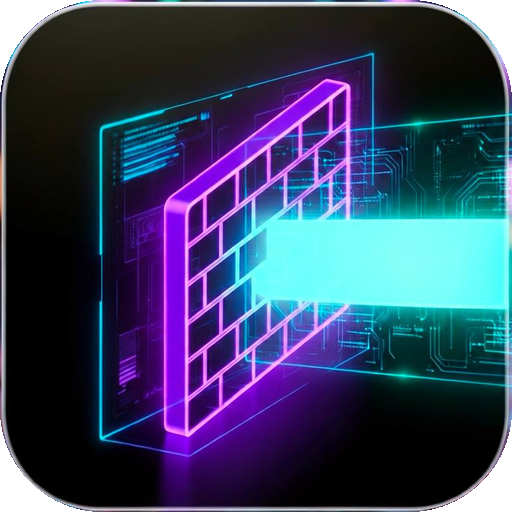
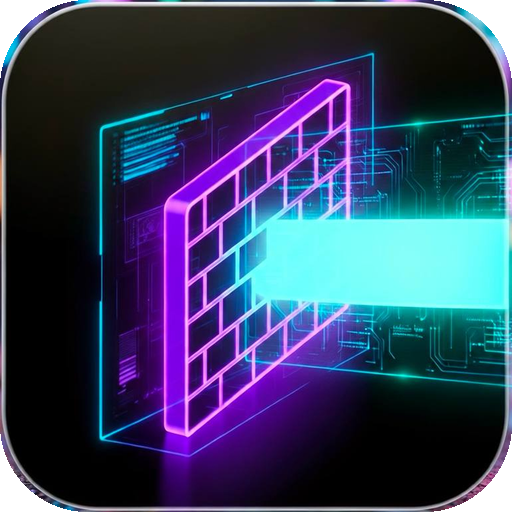
fix(v1.6.2): иконка — радиус углов по картинке (17%, рамка не подрезается); вкладка «Подключение» переработана (единый каркас, кнопки равной ширины, QR в ряду ссылки, слоп-тексты удалены); Share APK → Настройки; preserveScroll — пересборки не двигают экран; веб-тексты почищены

diff --git a/android/app/src/main/java/dev/stelgen/reverseray/MainActivity.kt b/android/app/src/main/java/dev/stelgen/reverseray/MainActivity.kt
@@ -249,7 +249,7 @@ class MainActivity : AppCompatActivity() {
                     // v1.5.0: сервис остановлен — дашборд в оффлайн-снапшот профилей
                     if (state == TunnelService.STATE_STOPPED) {
                         lastSessionsJson = ""
-                        dashboard.update(offlineStats())
+                        preserveScroll { dashboard.update(offlineStats()) }
                     }
                     intent.getStringExtra(TunnelService.EXTRA_STATUS)?.let { statusText ->
                         renderServiceLogs()
@@ -475,6 +475,7 @@ class MainActivity : AppCompatActivity() {
     }
 
     private fun showPage(index: Int) {
+        currentTab = index
         listOf(pageHome, pageLink, pageUpdate, pageLog, pageSettings).forEachIndexed { i, p ->
             val show = i == index
             p.visibility = if (show) View.VISIBLE else View.GONE
@@ -522,11 +523,31 @@ class MainActivity : AppCompatActivity() {
             ),
         )
         parent.addView(dashboard)
-        if (lastSessionsJson.isBlank()) dashboard.update(offlineStats())
+        if (lastSessionsJson.isBlank()) preserveScroll { dashboard.update(offlineStats()) }
     }
 
     /** Последний JSON-снапшот сессий из EXTRA_SESSIONS (пусто — сервис молчит). */
     @Volatile private var lastSessionsJson: String = ""
+
+    /** v1.6.2: текущая вкладка (для стабилизации скролла при пересборках). */
+    private var currentTab = 0
+
+    /**
+     * v1.6.2: пересборка списков НЕ должна двигать экран: фиксируем scrollY
+     * активной вкладки, выполняем пересборку, возвращаем позицию (post —
+     * после перелайаута; страховочный пост через 64 мс).
+     */
+    private fun preserveScroll(block: () -> Unit) {
+        val sv = when (currentTab) {
+            0 -> pageHome; 1 -> pageLink; 2 -> pageUpdate; 3 -> pageLog; 4 -> pageSettings; else -> null
+        } as? android.widget.ScrollView
+        val y = sv?.scrollY ?: 0
+        block()
+        if (sv != null) {
+            sv.post { sv.scrollTo(0, y) }
+            sv.postDelayed({ sv.scrollTo(0, y) }, 64)
+        }
+    }
 
     /** Оффлайн-снапшот из профилей (сервис не шлёт статсы: stopped/disabled). */
     private fun offlineStats(): List<DashboardView.Stat> {
@@ -576,7 +597,8 @@ class MainActivity : AppCompatActivity() {
             }
         } catch (_: Exception) {
         }
-        dashboard.update(list)
+        // v1.6.2: дашборд пересобирается каждые 500 мс — скролл Home не дёргается
+        preserveScroll { dashboard.update(list) }
     }
 
     private fun page(): LinearLayout = LinearLayout(this).apply {
@@ -825,15 +847,39 @@ class MainActivity : AppCompatActivity() {
 
     private fun buildLinkPage(): View {
         val p = page()
-        p.addView(TextView(this).apply {
-            setText(R.string.link_tab_hint)
-            textSize = 13f
-            setPadding(0, dp(4), 0, dp(4))
-        })
 
-        // v1.6.0: сессии (мульти-сервер) живут ЗДЕСЬ, на «Подключении» —
-        // раньше карточка была в «Настройках» (дубль, находили с трудом).
-        p.addView(sectionTitle(R.string.sess_section_title, null))
+        // ── 1. ПОДКЛЮЧЕНИЕ: каноническая ссылка (read-only) + правка/QR ──
+        val linkCard = LinearLayout(this).apply { orientation = LinearLayout.VERTICAL }
+        linkCard.addView(sectionTitle(R.string.config_hint_title, null))
+        linkStatusView = TextView(this).apply {
+            textSize = 12f
+            setTypeface(typeface, Typeface.BOLD)
+            setPadding(0, dp(2), 0, dp(4))
+            visibility = View.GONE
+        }
+        linkCard.addView(linkStatusView)
+        linkValueView = TextView(this).apply {
+            textSize = 12f
+            setTypeface(Typeface.MONOSPACE)
+            setPadding(dp(10), dp(10), dp(10), dp(10))
+            setTextIsSelectable(true)
+            val cur = prefs().getString(TunnelService.KEY_CONFIG, "") ?: ""
+            text = if (cur.isBlank()) getString(R.string.link_empty) else cur
+        }
+        linkCard.addView(linkValueView)
+        linkCard.addView(
+            row(
+                outlined(R.string.link_edit).apply { setOnClickListener { showEditLinkDialog() } },
+                outlined(R.string.qr_scan).apply { setOnClickListener { launchScan() } },
+                outlined(R.string.qr_show).apply { setOnClickListener { showQr() } }.apply {
+                    visibility = if (qrSupported) View.VISIBLE else View.GONE
+                },
+            )
+        )
+        p.addView(card(linkCard))
+
+        // ── 2. СЕРВЕРЫ: сессии мульти-серверного ядра (v1.6.0 перенесено
+        // из «Настроек»; v1.6.2 — единый лаконичный каркас вкладки) ──
         val sessionsCard = card(LinearLayout(this).apply { orientation = LinearLayout.VERTICAL })
         sessionsBox = sessionsCard.getChildAt(0) as LinearLayout
         sessionsCard.addView(
@@ -842,12 +888,12 @@ class MainActivity : AppCompatActivity() {
         p.addView(sessionsCard)
         refreshSessionsCard()
 
-        // v1.6.0: МУЛЬТИ-ВВОД ссылок — многострочное окно: по ссылке на строку,
-        // импорт пачкой (вкл. по умолчанию, коннект — по кнопке Старт).
+        // ── 3. ИМПОРТ: пачка ссылок (по одной на строку) ──
         val bulkCard = card(LinearLayout(this).apply { orientation = LinearLayout.VERTICAL })
+        bulkCard.addView(sectionTitle(R.string.sess_bulk_title, null))
         val bulkInput = TextInputEditText(this).apply {
             hint = getString(R.string.sess_bulk_hint)
-            minLines = 3
+            minLines = 2
             gravity = Gravity.TOP
             setTextSize(12f)
             setTypeface(Typeface.MONOSPACE)
@@ -871,38 +917,6 @@ class MainActivity : AppCompatActivity() {
             ),
         )
         p.addView(bulkCard)
-
-        // v1.3.0: ссылка ОТОбражается (read-only, перенос строк); правка — через
-        // кнопку «Изменить» с диалогом (Отмена/Очистить/ОК) и тестовым прогоном.
-        val linkCard = LinearLayout(this).apply { orientation = LinearLayout.VERTICAL }
-        linkCard.addView(sectionTitle(R.string.config_hint_title, null))
-        linkStatusView = TextView(this).apply {
-            textSize = 12f
-            setTypeface(typeface, Typeface.BOLD)
-            setPadding(0, dp(2), 0, dp(4))
-            visibility = View.GONE
-        }
-        linkCard.addView(linkStatusView)
-        linkValueView = TextView(this).apply {
-            textSize = 12f
-            setTypeface(Typeface.MONOSPACE)
-            setPadding(dp(10), dp(10), dp(10), dp(10))
-            setTextIsSelectable(true)
-            val cur = prefs().getString(TunnelService.KEY_CONFIG, "") ?: ""
-            text = if (cur.isBlank()) getString(R.string.link_empty) else cur
-        }
-        linkCard.addView(linkValueView)
-        linkCard.addView(
-            row(
-                outlined(R.string.link_edit).apply { setOnClickListener { showEditLinkDialog() } },
-                outlined(R.string.qr_scan).apply { setOnClickListener { launchScan() } },
-            )
-        )
-        p.addView(card(linkCard))
-
-        if (qrSupported) {
-            p.addView(row(outlined(R.string.qr_show).apply { setOnClickListener { showQr() } }))
-        }
 
         if (fileIoSupported) {
             p.addView(
@@ -1008,23 +1022,6 @@ class MainActivity : AppCompatActivity() {
             setOnClickListener { showTransportPicker() }
         })
         p.addView(card(protoCard))
-
-        // Поделиться приложением: ссылка или APK (модули вшиты, настроек нет)
-        val shareCard = LinearLayout(this).apply { orientation = LinearLayout.VERTICAL }
-        shareCard.addView(sectionTitle(R.string.btn_share_app, null))
-        shareCard.addView(TextView(this).apply {
-            setText(R.string.share_choose)
-            textSize = 12f
-            setTextColor(0xFF6B7280.toInt())
-            setPadding(0, dp(2), 0, dp(4))
-        })
-        shareCard.addView(
-            row(
-                filled(R.string.share_link).apply { setOnClickListener { shareAppLink() } },
-                outlined(R.string.share_apk).apply { setOnClickListener { shareAppApk() } },
-            )
-        )
-        p.addView(card(shareCard))
         return scrollWrap(p)
     }
 
@@ -1350,6 +1347,18 @@ class MainActivity : AppCompatActivity() {
             }
         })
         p.addView(card(probe))
+
+        // v1.6.2: «Поделиться приложением» переехал со вкладки «Подключение»
+        // в «Настройки» (канон: распространение — настройка, не подключение).
+        val shareCard = LinearLayout(this).apply { orientation = LinearLayout.VERTICAL }
+        shareCard.addView(sectionTitle(R.string.btn_share_app, null))
+        shareCard.addView(
+            row(
+                filled(R.string.share_link).apply { setOnClickListener { shareAppLink() } },
+                outlined(R.string.share_apk).apply { setOnClickListener { shareAppApk() } },
+            )
+        )
+        p.addView(card(shareCard))
         return scrollWrap(p)
     }
 
@@ -2925,49 +2934,53 @@ class MainActivity : AppCompatActivity() {
     /** Пересборка списка сессий в настройках. */
     private fun refreshSessionsCard() {
         if (!this::sessionsBox.isInitialized) return
-        sessionsBox.removeAllViews()
-        val store = sessionStore()
-        val active = store.activeId()
-        for (pr in store.profiles()) {
-            val line = LinearLayout(this).apply { orientation = LinearLayout.VERTICAL }
-            line.addView(TextView(this).apply {
-                text = (if (pr.id == active) "★ " else "") + pr.name +
-                    "  ·  " + getString(if (pr.enabled) R.string.dash_state_connected else R.string.dash_state_disabled)
-                textSize = 13f
-                setTypeface(typeface, Typeface.BOLD)
-                setPadding(0, dp(6), 0, dp(2))
-            })
-            line.addView(TextView(this).apply {
-                text = pr.uri
-                textSize = 11f
-                setTypeface(Typeface.MONOSPACE)
-                setTextColor(0xFF8FA3D9.toInt())
-                maxLines = 2
-                ellipsize = android.text.TextUtils.TruncateAt.END
-            })
-            line.addView(row(
-                outlined(if (pr.enabled) R.string.sess_off else R.string.sess_on).apply {
-                    setOnClickListener {
-                        store.setEnabled(pr.id, !pr.enabled)
-                        sendSessionCmd(pr.id, if (pr.enabled) "disconnect" else "connect")
-                        refreshSessionsCard()
-                    }
-                },
-                outlined(R.string.sess_rename).apply { setOnClickListener { showRenameSessionDialog(pr.id) } },
-                outlined(R.string.dash_session_primary).apply {
-                    visibility = if (pr.id == active) View.GONE else View.VISIBLE
-                    setOnClickListener {
-                        store.setActive(pr.id)
-                        sendSessionCmd(pr.id, "primary")
-                        refreshSessionsCard()
-                        dashboard.update(offlineStats())
-                    }
-                },
-                outlined(R.string.sess_delete).apply {
-                    setOnClickListener { confirmDeleteSession(pr.id) }
-                },
-            ))
-            sessionsBox.addView(line)
+        preserveScroll {
+            sessionsBox.removeAllViews()
+            val store = sessionStore()
+            val active = store.activeId()
+            for (pr in store.profiles()) {
+                val line = LinearLayout(this).apply { orientation = LinearLayout.VERTICAL }
+                line.addView(TextView(this).apply {
+                    text = (if (pr.id == active) "★ " else "") + pr.name +
+                        "  ·  " + getString(if (pr.enabled) R.string.dash_state_connected else R.string.dash_state_disabled)
+                    textSize = 13f
+                    setTypeface(typeface, Typeface.BOLD)
+                    setPadding(0, dp(6), 0, dp(2))
+                })
+                line.addView(TextView(this).apply {
+                    text = pr.uri
+                    textSize = 11f
+                    setTypeface(Typeface.MONOSPACE)
+                    setTextColor(0xFF8FA3D9.toInt())
+                    maxLines = 1
+                    ellipsize = android.text.TextUtils.TruncateAt.MIDDLE
+                })
+                // v1.6.2: кнопки РАВНОЙ ширины (weight=1) — «Rename» больше не
+                // переносится на две строки, высота строки стабильна.
+                val btnRow = LinearLayout(this).apply { orientation = LinearLayout.HORIZONTAL }
+                fun addBtn(labelRes: Int, onClick: () -> Unit) {
+                    btnRow.addView(outlined(labelRes).apply {
+                        setOnClickListener { onClick() }
+                        layoutParams = LinearLayout.LayoutParams(0, LinearLayout.LayoutParams.WRAP_CONTENT, 1f)
+                            .apply { setMargins(0, dp(6), dp(6), 0) }
+                    })
+                }
+                addBtn(if (pr.enabled) R.string.sess_off else R.string.sess_on) {
+                    store.setEnabled(pr.id, !pr.enabled)
+                    sendSessionCmd(pr.id, if (pr.enabled) "disconnect" else "connect")
+                    refreshSessionsCard()
+                }
+                addBtn(R.string.sess_rename) { showRenameSessionDialog(pr.id) }
+                if (pr.id != active) addBtn(R.string.dash_session_primary) {
+                    store.setActive(pr.id)
+                    sendSessionCmd(pr.id, "primary")
+                    refreshSessionsCard()
+                    preserveScroll { dashboard.update(offlineStats()) }
+                }
+                addBtn(R.string.sess_delete) { confirmDeleteSession(pr.id) }
+                line.addView(btnRow)
+                sessionsBox.addView(line)
+            }
         }
     }
 
@@ -3015,7 +3028,7 @@ class MainActivity : AppCompatActivity() {
                 Toast.makeText(this, getString(R.string.sess_added, created.name), Toast.LENGTH_LONG).show()
                 refreshSessionsCard()
                 if (connectNow) sendSessionCmd(created.id, "connect")
-                if (lastSessionsJson.isBlank()) dashboard.update(offlineStats())
+                if (lastSessionsJson.isBlank()) preserveScroll { dashboard.update(offlineStats()) }
             }
         }
         dialog.getButton(androidx.appcompat.app.AlertDialog.BUTTON_POSITIVE).setOnClickListener {
@@ -3110,7 +3123,7 @@ class MainActivity : AppCompatActivity() {
                 if (name.isNotBlank() && store.rename(id, name)) {
                     Toast.makeText(this, R.string.sess_renamed, Toast.LENGTH_SHORT).show()
                     refreshSessionsCard()
-                    dashboard.update(offlineStats())
+                    preserveScroll { dashboard.update(offlineStats()) }
                 }
             }
             .setNegativeButton(R.string.link_cancel, null)
@@ -3129,7 +3142,7 @@ class MainActivity : AppCompatActivity() {
                     sendSessionCmd(id, "disconnect")
                     Toast.makeText(this, R.string.sess_removed, Toast.LENGTH_SHORT).show()
                     refreshSessionsCard()
-                    dashboard.update(offlineStats())
+                    preserveScroll { dashboard.update(offlineStats()) }
                 }
             }
             .setNegativeButton(R.string.cancel, null)

diff --git a/server/internal/serverapp/ui.go b/server/internal/serverapp/ui.go
@@ -292,7 +292,7 @@ button.act.dw:hover{border-color:#ff6b6b}
  <div class="grid kpis" id="kpis"></div>
  <div class="grid" style="margin-top:10px">
   <div class="panel">
-   <h3><span>Управление телефонами</span><span class="ctrl dim">токен хранится хэшем — полную ссылку выдаёт enroll</span></h3>
+   <h3><span>Управление телефонами</span><span class="ctrl dim">hash-only</span></h3>
    <div style="overflow-x:auto"><table id="devs"><thead><tr>
     <th>Устройство</th><th>Сессий</th><th>Протоколы</th><th>↓ релей</th><th>↑ релей</th><th>API Mask</th><th>Действия</th>
    </tr></thead><tbody></tbody></table></div>
@@ -395,7 +395,7 @@ async function tick(){
    rows+='<tr><td class="s"><b>'+esc(x.device)+'</b></td><td class="s">'+esc(protoLabel(x.proto,s))+'</td><td class="s dim">'+esc(x.proto===undefined?'':(x.transport||'tcp'))+'</td><td>'+rtt+'</td><td>'+x.streams+'</td><td>'+win+'</td><td>'+fmtB(x.relay_in)+'</td><td>'+fmtB(x.relay_out)+'</td><td class="s">'+ri+'</td><td class="s">'+ro+'</td><td>'+(x.open_errors?'<span class="warn">'+x.open_errors+'</span>':'<span class="ok">0</span>')+'</td><td class="dim">'+fmtUp(x.uptime_sec)+'</td></tr>';
   });
   document.querySelector('#sess tbody').innerHTML=rows||'<tr><td colspan="12" class="dim">нет активных туннелей</td></tr>';
-  document.getElementById('parkinfo').textContent='буфер: '+fmtUp(s.parked_streams!=null?s.parked_streams*2:0);
+  document.getElementById('parkinfo').textContent='в буфере: '+(s.parked_streams||0);
   var pl=(s.protocols||[]).map(function(p){return '<span class="pill">'+esc(protoLabel(p,s))+'</span>'}).join(' ');
   document.getElementById('protos').innerHTML='<div style="margin-bottom:6px">Реестр протоколов: '+pl+'</div><div>Протокол по умолчанию: <b>'+esc(protoLabel(s.default_proto,s))+'</b></div><div style="margin-top:4px">Сессии на не-дефолтном протоколе: '+s.proto_sessions_non_default+'</div>';
   document.getElementById('facts').innerHTML=(s.facts||[]).map(function(f){return '· '+esc(f)}).join('<br>');
@@ -475,7 +475,7 @@ async function tickDevices(){
    var s=lastStatus||{},d=b.dataset.copy;
    var port=((s.listen_tunnels||':4433').split(':').pop())||'4433';
    var link='rrp://<ТОКЕН>@'+location.hostname+':'+port+'/?pin='+encodeURIComponent(s.ca_pin||'')+'&name='+encodeURIComponent(d);
-   (navigator.clipboard&&navigator.clipboard.writeText(link)||Promise.reject()).then(function(){b.textContent='Скопировано';setTimeout(function(){b.textContent='Копировать'},1200)},function(){window.prompt('Скопируйте шаблон (токен — из enroll):',link)});
+   (navigator.clipboard&&navigator.clipboard.writeText(link)||Promise.reject()).then(function(){b.textContent='Скопировано';setTimeout(function(){b.textContent='Копировать'},1200)},function(){window.prompt('Токен — из enroll:',link)});
   }});
  }catch(e){}
 }

diff --git a/CHANGELOG.md b/CHANGELOG.md
@@ -2,6 +2,27 @@
 
 Формат — [Keep a Changelog](https://keepachangelog.com/ru/1.1.0/); версионирование — [SemVer](https://semver.org/lang/ru/).
 
+## [1.6.2] — 2026-11-06
+
+### Исправлено
+- **Иконка: углы по картинке**: радиус скругления вычислен из исходного
+  арта (≈17.8% ширины) и применён 17% — рамка лого больше не подрезается
+  маской, углы гладкие во всех размерах (мипмапы, adaptive, favicon).
+- **Вкладка «Подключение» переработана** (канон 2026, единый каркас):
+  ПРЕДПОДКЛЮЧЕНИЕ было мусором — кнопки наезжали на текст, «Rename»
+  переносился на две строки, дубли фреймов. Теперь: Ссылка (read-only,
+  в одном ряду Изменить · QR-скан · Показать QR) → Серверы (список сессий
+  с кнопками РАВНОЙ ширины, без переносов) → Импорт ссылок → Протоколы →
+  Модули → Инструменты (экспорт/импорт файла). Слоп-тексты удалены —
+  заголовки и слова говорят сами за себя.
+- **«Поделиться приложением» перенесено** во вкладку «Настройки».
+- **Скролл больше не прыгает**: пересборки (список серверов, дашборд
+  каждые 500 мс, оффлайн-снапшоты) сохраняют и восстанавливают позицию
+  экрана активной вкладки — нажатия не уносят вид.
+- **Веб-панель: тексты** — убраны пояснения-утешения («токен хранится
+  хэшем…», «буфер: …секунд» на числе стримов): заголовок обозначает
+  функцию сам.
+
 ## [1.6.1] — 2026-11-06
 
 ### Добавлено
